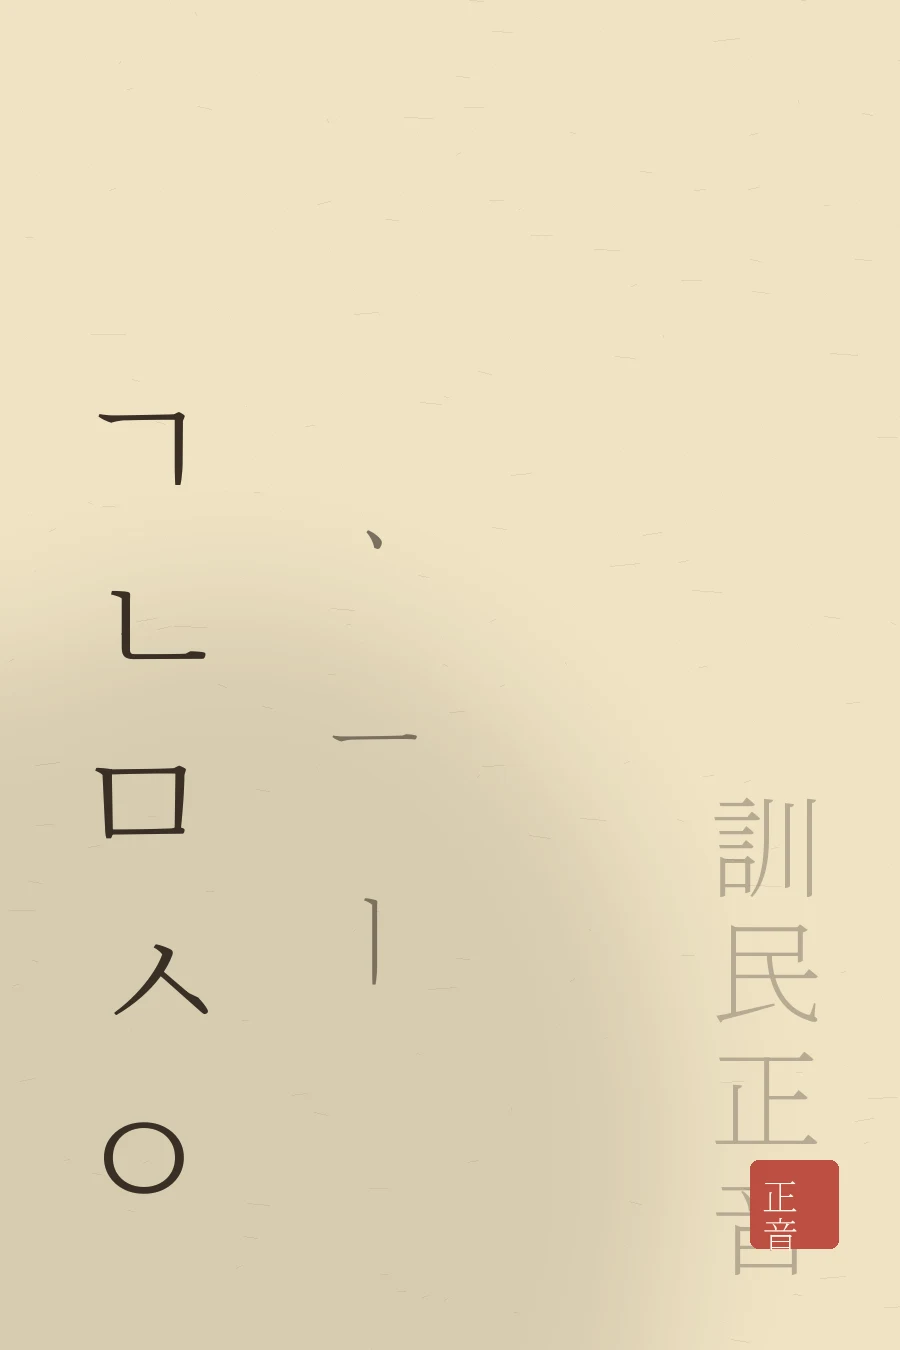
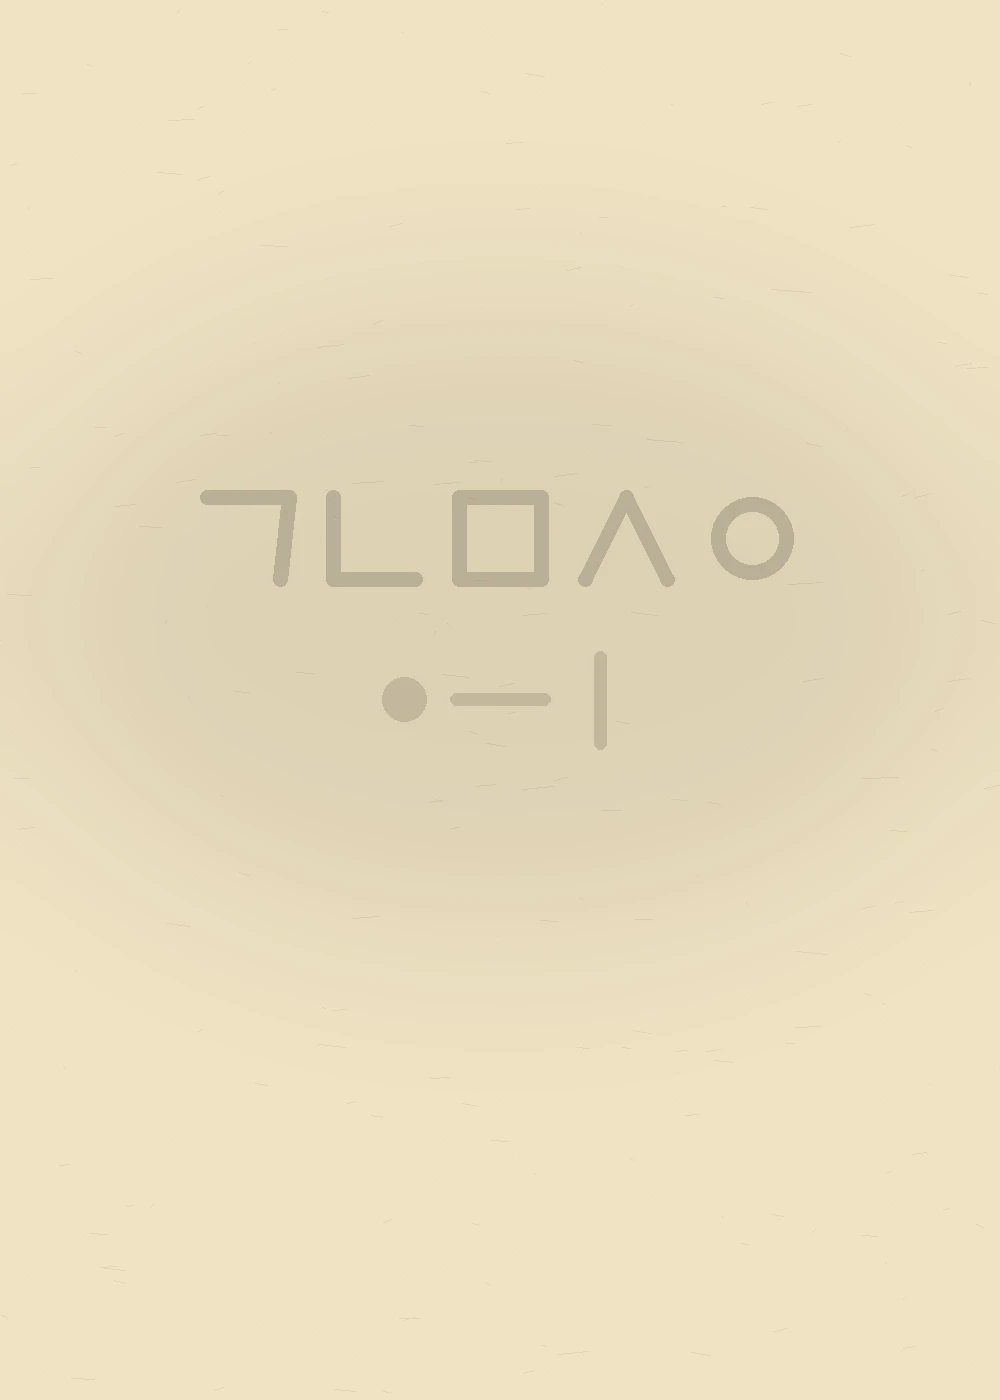
만든이 표기 수정, 타이틀 그림 다시 그림
- 만든이를 이종석(한국글로벌중학교 국어 교사)으로 바꾸고,
  원작자 박준일 선생님은 '원작' 줄로 따로 표기(타이틀·설정 화면)
- 타이틀 그림: 글꼴 글리프 대신 획을 직접 그려 ㄱㄴㅁㅅㅇ과
  하늘(ㆍ)·땅(ㅡ)·사람(ㅣ)을 구성. background-size:cover로 잘려
  글자가 깨져 보이던 문제를 고침(PC·휴대폰 크롭 안전 영역 안으로 배치)

Claude-Session: https://claude.ai/code/session_01LxcB8pfiKSpnhpNQtwp3Gm

diff --git a/js/game/app.js b/js/game/app.js
@@ -72,7 +72,8 @@
       menu,
       null,
       h('div.credit', '『세종실록』과 『훈민정음』 해례본을 바탕으로 지은 이야기예요 · 인물의 대사는 지어낸 것이에요'),
-      h('div.credit.maker', '만든이 박준일(온양여자고등학교 국어 교사)'),
+      h('div.credit.maker', '만든이 이종석(한국글로벌중학교 국어 교사)'),
+      h('div.credit.bgm', '원작 「영웅의 길」 박준일(온양여자고등학교 국어 교사)'),
       window.BGM ? h('div.credit.bgm', BGM.credit) : null,
       musicToggle()));
   };
@@ -513,7 +514,7 @@
       seg('선생님용', 'teacher', [[false, '끄기'], [true, '모든 장 열기 + 논변 건너뛰기']]),
       h('p.small.muted', '바로가기: 주소 끝에 ?ch=ch5처럼 붙이면 그 장으로 바로 가요(ch0 서장, ch1~ch7). ?teacher=1은 선생님용을 켜요.'),
       h('p.small.muted', '진행 상황은 이 브라우저에만 저장돼요(서버로 보내지 않아요).'),
-      h('p.small.muted', '원작 「영웅의 길」 박준일(온양여자고등학교 국어 교사) · 훈민정음판으로 고쳐 만듦'),
+      h('p.small.muted', '만든이 이종석(한국글로벌중학교 국어 교사) · 원작 「영웅의 길」 박준일(온양여자고등학교 국어 교사)'),
     ], [{ label: '처음부터 새로', value: 'reset' }, { label: '타이틀로', value: 'title' }, { label: '닫기', value: true, cls: 'primary' }]);
     if (res === 'reset') app.newGame(true);
     if (res === 'title') app.title();
